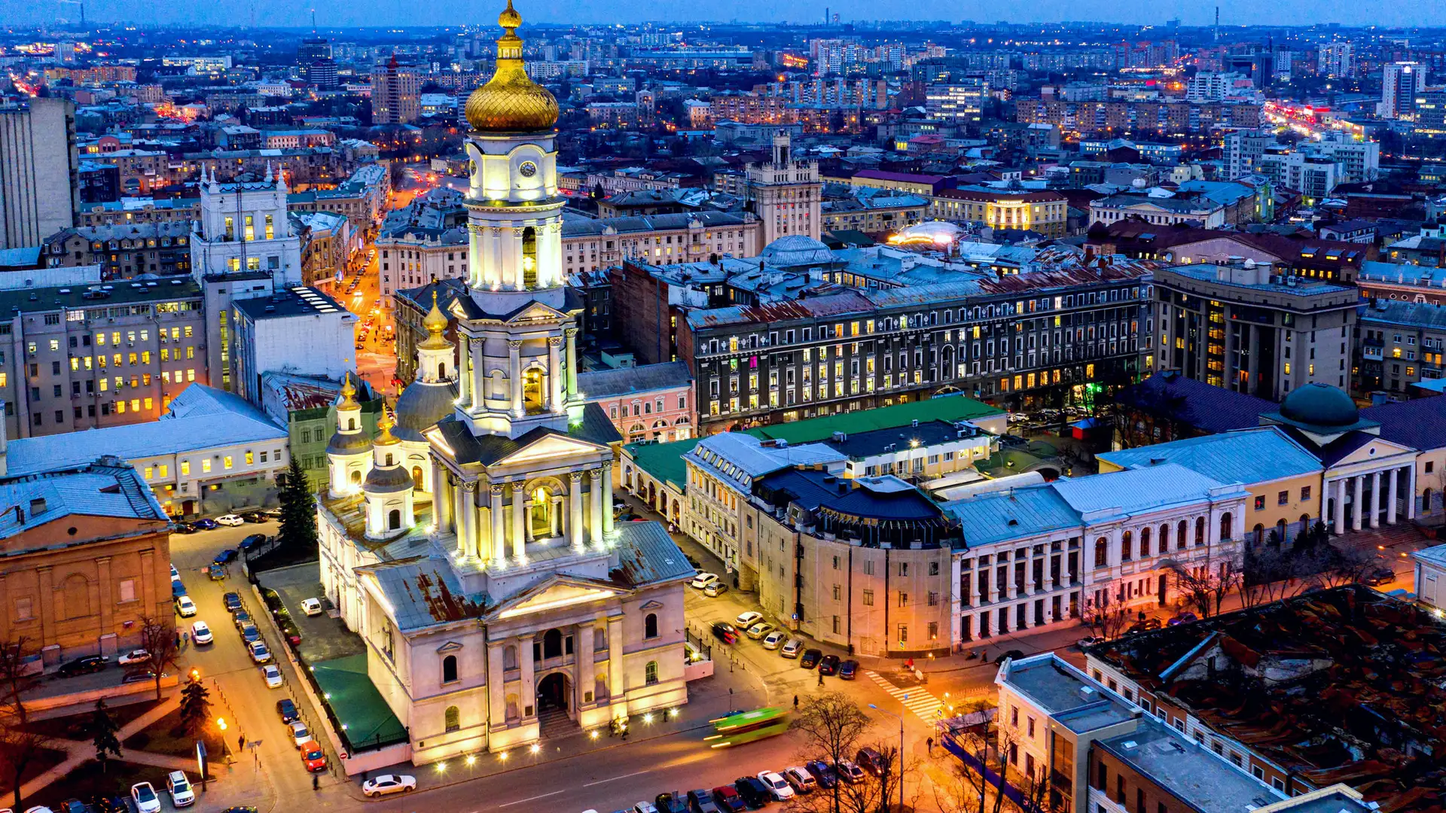
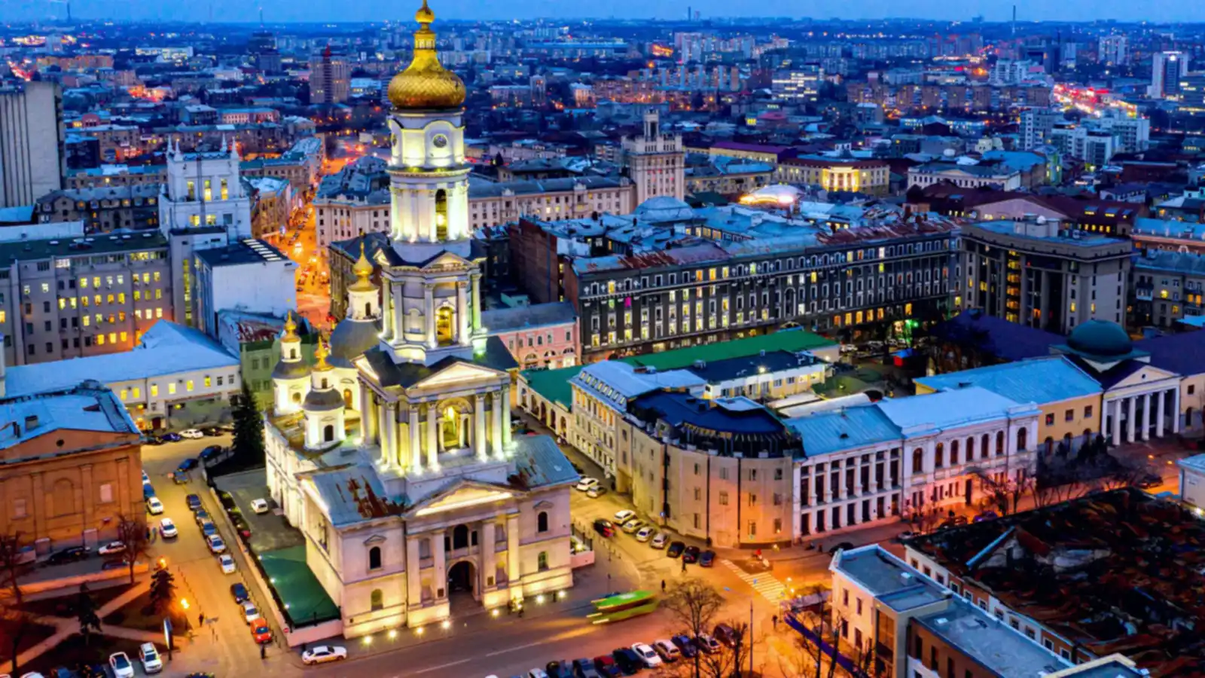
fix: прибрано вигадані відгуки й непідтверджену статистику, вага сторінки -71%
ЮРИДИЧНЕ (головне)
Видалено чотири вигадані відгуки з іменами, містами, «бізнесами» й
зірковими рейтингами. Це нечесна підприємницька практика (ЗУ «Про
захист прав споживачів», ст. 19) і недобросовісна реклама (ЗУ «Про
рекламу», ст. 10). Окремо: весь сайт продає чесність — вигадані
відгуки знищували саме те, що ми продаємо. Секція тепер не
рендериться, поки масив порожній; додайте реальні відгуки зі згодою
людей — вона з'явиться сама.

Прибрано «~70% відмов»: цієї цифри не підтверджує жодне офіційне
джерело, а поруч із перевіреними 500 000 ₴ і 34 000+ вона читалася
як така сама офіційна статистика. У поясі статистики замінена на
прохідний бал 130 із 250 (верифікований). Формулювання на
/prychyny-vidmov і в AntiRisk переписані без фальшивої точності.
Уточнено атрибуцію 34 000+ — це мікрогранти «Зроблено в Україні».

ПРОДУКТИВНІСТЬ: перше завантаження 1243 КБ → 355 КБ
- 6 слайдів кейсів PNG → WebP: 2.28 МБ → 0.42 МБ без втрати якості;
- фон hero: 394 КБ → 134 КБ (1600px, легкий blur — його видно лише
  крізь opacity .22 під темним градієнтом).

СТРУКТУРА: 21 → 18 секцій
- WhyRejected видалено: дублював статистику й меседж AntiRisk двома
  секціями нижче; посилання на 10 причин перенесено в AntiRisk;
- Author + FinancePartner → Team: були два однакові повноекранні
  блоки поспіль, тепер одна секція у дві колонки;
- прибрано абзац у TrustBlock, що дослівно повторював HonestyBlock;
- переписано лід Expertise, який утретє повторював ту саму статистику.
[…]

diff --git a/src/data/cases.ts b/src/data/cases.ts
@@ -5,7 +5,7 @@ export const cases = [
     slug: 'case-bpla',
     title: 'Майстерня комплектуючих для БпЛА',
     pitch: 'Карбонові рами та 3D-друковані деталі для цивільних безпілотників — заявку подано, грант отримано.',
-    cover: '/case/case-1-cover.png',
+    cover: '/case/case-1-cover.webp',
     stats: [
       { label: 'Грант', value: '500 000 ₴' },
       { label: 'Робочі місця', value: '2' },
@@ -16,7 +16,7 @@ export const cases = [
     slug: 'case-salon-krasy',
     title: 'Салон краси повного циклу — 4 напрями',
     pitch: 'Перукар, манікюр, косметологія й масаж під одним дахом — заявку подано, грант отримано.',
-    cover: '/case/salon-1-cover.png',
+    cover: '/case/salon-1-cover.webp',
     stats: [
       { label: 'Грант', value: '500 000 ₴' },
       { label: 'Робочі місця', value: '2' },
